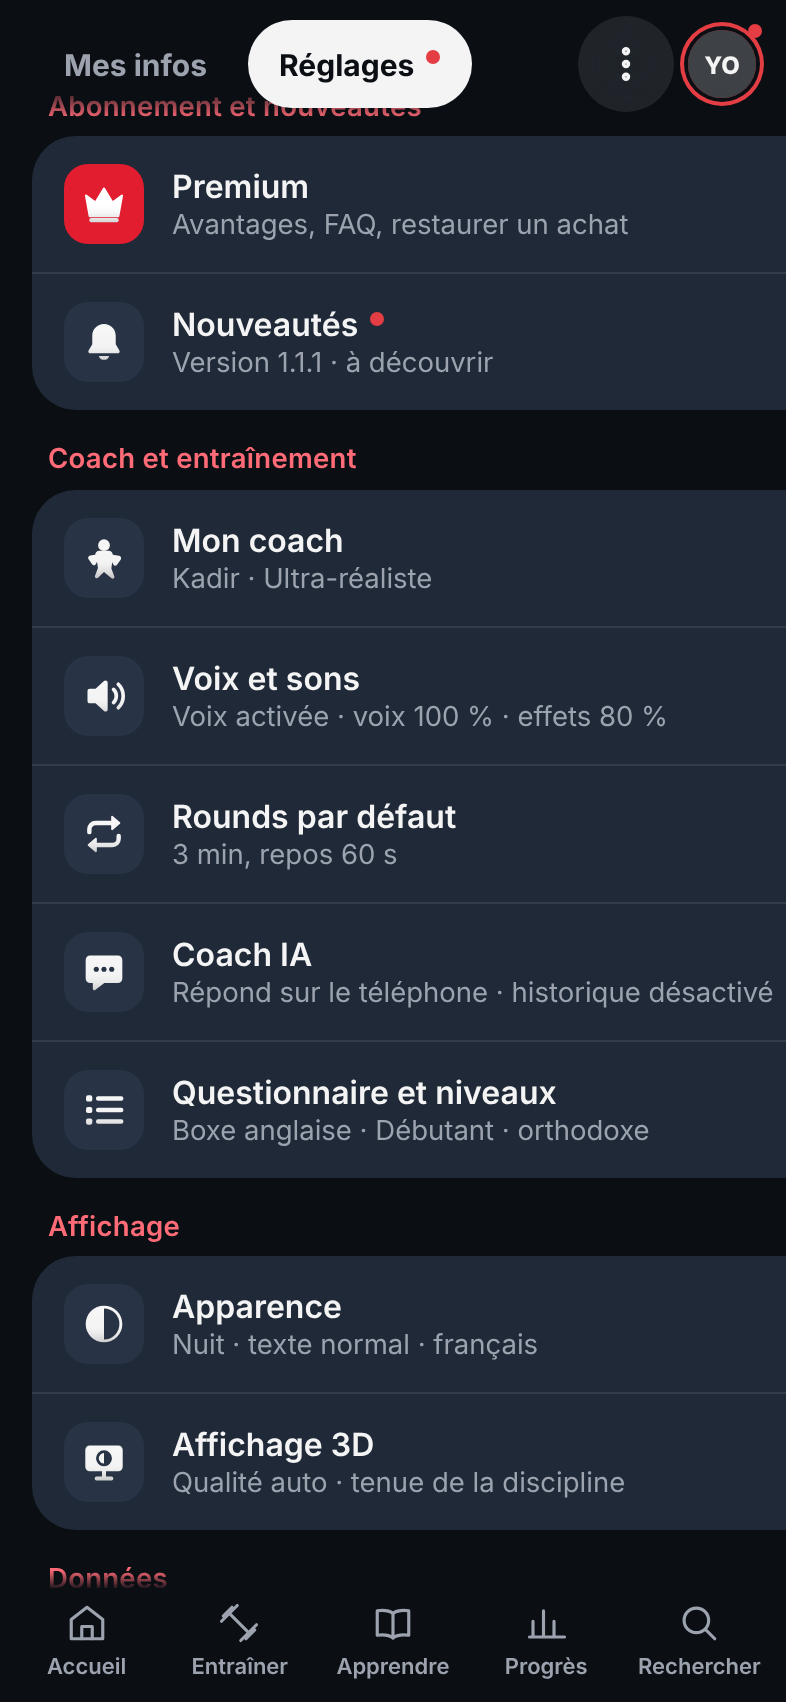
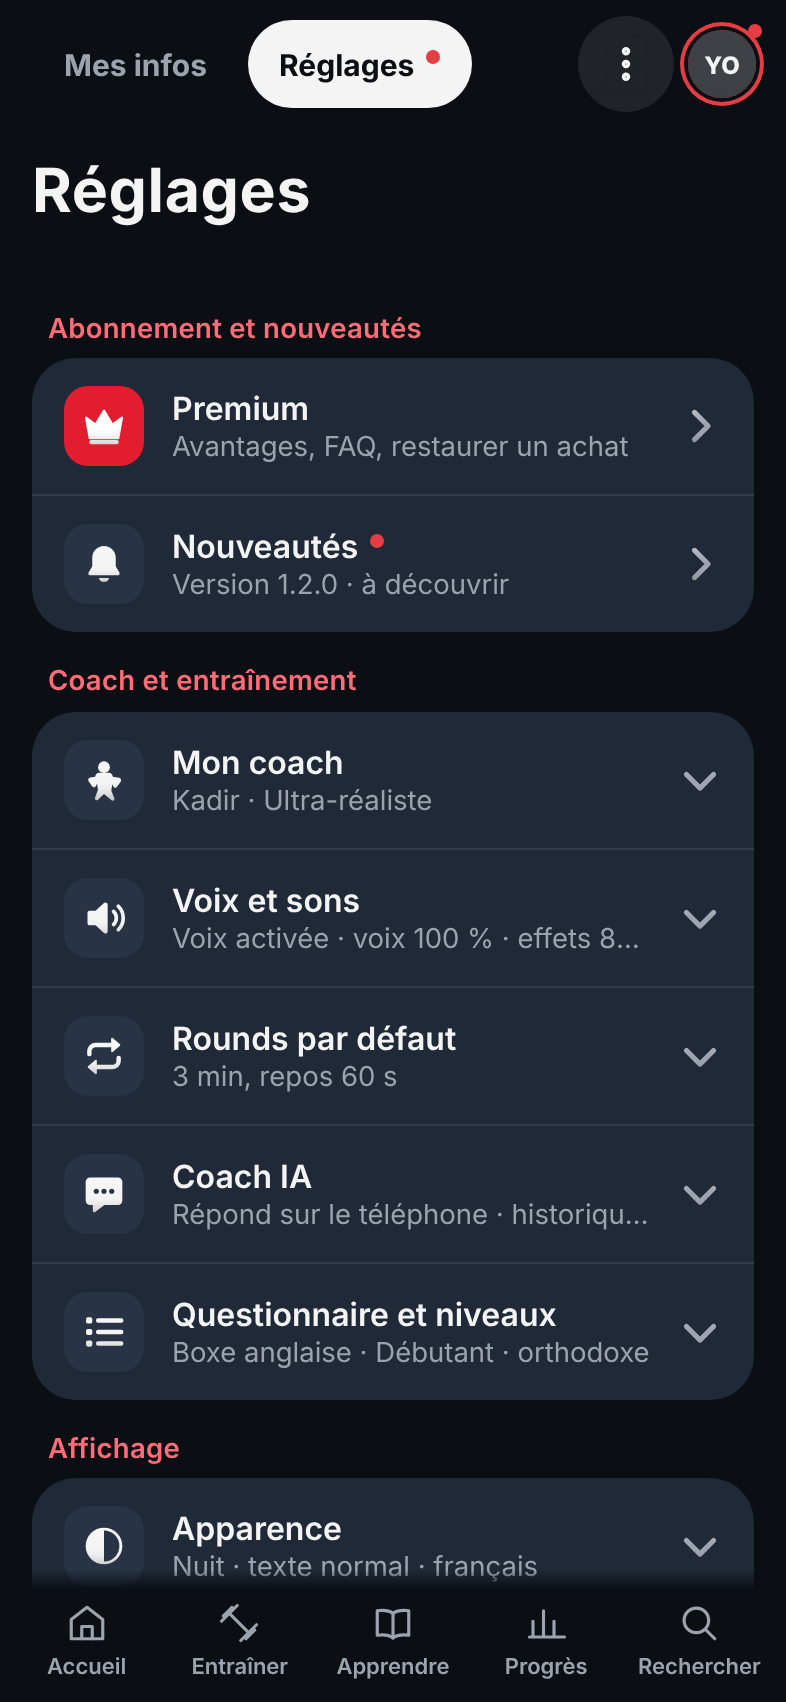
1.2.0 : Profil en 2 onglets, Mes infos et Réglages en listes groupées dépliantes
Mon coach et Coach IA deviennent des lignes de Réglages ; chaque ligne s'ouvre
sur place, Retour la referme. Aucun contenu retiré (tableau dans docs/v120/RAPPORT.md).

Claude-Session: https://claude.ai/code/session_01TJgdTUqLyWCehAqaTRZnc4

diff --git a/tests/e2e/navigation.spec.ts b/tests/e2e/navigation.spec.ts
@@ -27,7 +27,8 @@ const SCREENS: [string, string, string[][], string[] | null, string | null, stri
   ['/stats', 'progres', [], ['Période', 'Statistiques', 'Historique'], null, 'Progrès', null],
   ['/champions', 'legendes', [], ['Disciplines', 'Légende'], null, 'Apprendre', null],
   // 1.0.0 (lot 2): Mon coach and Réglages are tabs of Profil at the top of the screen, not repeated
-  ['/profil', 'profil', [], null, null, 'Profil', null],
+  // 1.2.0: Mon coach is a row of Réglages, no longer a tab: « Coach » of the bar is in the ⋮ (it opens that row)
+  ['/profil', 'profil', [], ['Coach'], null, 'Profil', null],
   // 1.1.0: « Caméra » left Réglages (it opened the same page as Affichage)
   ['/reglages', 'parametres', [], ['Affichage'], null, 'Profil', null],
   // 1.1.1 (Youssef, 2026-10-28: « Plus si uniquement rechercher le retirer car en doublon »): the magnifier is in the
@@ -195,7 +196,7 @@ test.describe('393×851', () => {
     expect(versions).toContain('0.32.0');
     expect(versions).toContain('0.31.0');
     expect(versions).toContain('1.0.0');
-    await expect(news.locator('[data-version="1.1.1"]')).toContainText('Version 1.1.1 · la plus récente');
+    await expect(news.locator('[data-version="1.2.0"]')).toContainText('Version 1.2.0 · la plus récente');
     await expect(news).not.toContainText('fictive');
     // seen: the dots go away at once
     await expect(page.getByTestId('menu-dot')).toHaveCount(0);

diff --git a/src/ui/components/SettingsList.tsx b/src/ui/components/SettingsList.tsx
@@ -95,7 +95,7 @@ export function SetItem({ id, icon, title, summary, dot, tone, children }: { id:
 }
 
 /** a row that opens another page or a sheet instead of opening in place (Premium, Nouveautés) */
-export function SetAction({ icon, title, summary, dot, tone, onClick, to, testId, ariaLabel }: { icon: GlyphId; title: string; summary?: ReactNode; dot?: boolean; tone?: 'premium'; onClick?: () => void; to?: string; testId?: string; ariaLabel?: string }) {
+export function SetAction({ icon, title, summary, dot, dotTestId, tone, onClick, to, testId, ariaLabel }: { icon: GlyphId; title: string; summary?: ReactNode; dot?: boolean; dotTestId?: string; tone?: 'premium'; onClick?: () => void; to?: string; testId?: string; ariaLabel?: string }) {
   const s = useContext(Ctx)!;
   return (
     <div className={`set-item ${tone ?? ''}`}>
@@ -106,7 +106,7 @@ export function SetAction({ icon, title, summary, dot, tone, onClick, to, testId
         <span className="set-tx">
           <b>
             {title}
-            {dot && <i className="me-dot" aria-hidden />}
+            {dot && <i className="me-dot" aria-hidden data-testid={dotTestId} />}
           </b>
           {summary && <span>{summary}</span>}
         </span>

diff --git a/tests/e2e/accueil-recherche.spec.ts b/tests/e2e/accueil-recherche.spec.ts
@@ -169,6 +169,8 @@ for (const theme of ['clair', 'sombre'] as const) {
     await page.getByTestId('app-search').click();
     await page.getByTestId('search-input').fill('ga');
     await expect(page.getByTestId('search-hit').first()).toBeVisible();
+    // 1.2.0: the colours are read once the sheet has finished sliding up (axe read a sheet still moving, 1 run in 2)
+    await page.getByTestId('search-sheet').evaluate((e) => Promise.all(e.parentElement!.getAnimations({ subtree: true }).map((a) => a.finished)));
     const sheet = await new AxeBuilder({ page }).include('[data-testid="search-sheet"]').withRules(['color-contrast']).analyze();
     expect(sheet.violations).toEqual([]);
   });

diff --git a/src/ui/screens/Settings.tsx b/src/ui/screens/Settings.tsx
@@ -177,6 +177,7 @@ export function SettingsPage() {
             title="Nouveautés"
             summary={`Version ${LATEST_RELEASE.version}${unseen ? ' · à découvrir' : ''}`}
             dot={unseen}
+            dotTestId="news-dot"
             onClick={openNews}
             testId="reglages-nouveautes"
             ariaLabel={unseen ? 'Nouveautés, nouvelle version' : 'Nouveautés'}

diff --git a/docs/JOURNAL_CORRECTIONS.md b/docs/JOURNAL_CORRECTIONS.md
@@ -2088,3 +2088,20 @@ ci-dessus sont publiées ensemble en v0.28.0 (pas de publication séparée de la
   - TypeScript : RÉUSSI. Vitest : 849 RÉUSSIS, 1 ignoré.
   - Playwright (corrections-v110 dont les 2 nouveaux tests, navigation, chrono, chrono-seul, coach-bubble, accueil-recherche, createur-v2, nav-contextuelle, aucune-perte-v100) : 69 RÉUSSIS, 2 ÉCHOUÉS : `navigation:172` (attendait la 1.1.0 en tête, mis à jour) ; `chrono:30` instable (la préparation dure 3 s et la machine chargée lisait sa couleur après la fin) : la page enregistre maintenant l'aspect de la préparation au moment où elle s'affiche, sans rien retirer de ce qui est vérifié ; relances 18/18 RÉUSSIS et 2/2 pour `navigation:172`.
   - Android réel : NON EXÉCUTÉ.
+
+## 2026-10-28 · 1.2.0 · Profil et réglages en listes
+
+- **Demande** (Youssef, 07:4x) : « lorsqu'on clique sur la tête en haut à droite, 2 onglets glissants : Mes infos & Réglages avec tout le reste dans Réglages : une page avec toutes les options en liste bien présentées qui se déploient quand on clique dessus » ; « pareil dans Mes infos » ; proposition choisie B « Groupes Android ». Rappels : aucune perte de contenu, mode jour et nuit.
+- **Constat** : Profil avait 4 onglets (Mes infos, Mon coach, Coach IA, Réglages) ; Mes infos et Réglages étaient de longues pages de panneaux, avec des réglages d'affichage et de données dans Mes infos.
+- **Changement** (détail et tableau « où va chaque contenu » dans `docs/v120/RAPPORT.md`, captures jour et nuit dans `docs/v120/captures/`) :
+  - Profil = 2 onglets, Mes infos et Réglages ; Mon coach et Coach IA deviennent des lignes de Réglages (les pages `/coach` et `/coach-ia` restent) ;
+  - chaque onglet est une seule liste en groupes, chaque ligne montre sa valeur et s'ouvre sur place, une à la fois ; Retour referme la ligne d'abord (`src/ui/components/SettingsList.tsx`, styles `.set-*`) ;
+  - taille du texte, animations, langue et « M'appeler par mon pseudo » passent dans Réglages ; export, effacement et confidentialité regroupés dans Réglages › Données et confidentialité ; anciennes adresses `/reglages/<section>` ouvrent la bonne ligne ;
+  - guide du Coach IA, recherche et Nouveautés 1.2.0 mis à jour, version 1.2.0.
+- **Défauts trouvés en vérifiant et corrigés** : lignes qui débordaient à droite ; résumé de l'identité ambigu ; repère de la pastille Nouveautés.
+- **Tests** :
+  - TypeScript : RÉUSSI. Vitest : 849 RÉUSSIS, 1 ignoré.
+  - Nouveau `tests/e2e/profil-v120.spec.ts` : 6/6 RÉUSSIS. 15 fichiers adaptés sans retirer de vérification.
+  - Playwright complet (254 tests, 37,5 min) : 250 RÉUSSIS, 2 ignorés (Firebase), 2 ÉCHOUÉS : `training-layout:329` (déjà en échec avant la 1.0.0) et `coach-suggest:98` (ÉCHOUÉ aussi sur la 1.1.1, sans lien avec ce lot).
+  - Android réel : NON EXÉCUTÉ.
+

diff --git a/docs/v120/RAPPORT.md b/docs/v120/RAPPORT.md
@@ -47,6 +47,24 @@ Point de restauration : `restauration/avant-v120` (dd1f952). Branche : `feature/
 
 Les pages `/coach` (choix du coach au premier lancement) et `/coach-ia` (historique) restent. La barre du bas de Profil garde « Coach », qui ouvre maintenant Réglages › Mon coach.
 
+## Captures
+
+`docs/v120/captures/` : Mes infos et Réglages, lignes fermées et ouvertes, en mode nuit (`*-dark.png`) et en mode jour (`*-light.png`), 393 × 851.
+
+## Défauts trouvés en vérifiant et corrigés
+
+- Les lignes débordaient à droite de l'écran (le résumé sur une ligne élargissait la grille) : colonne `minmax(0, 1fr)`.
+- Le résumé de l'identité disait « Youssef · Mon coach » : il dit maintenant « avatar : mon coach ».
+- La pastille de Nouveautés n'avait plus son repère de test `news-dot` : rétabli.
+
 ## Tests
 
-Voir la section « Résultats » ci-dessous (remplie après exécution).
+- TypeScript : RÉUSSI.
+- Vitest : 849 RÉUSSIS, 1 ignoré (dont `refonte.test` mis à jour : 2 onglets dans Profil, « Coach » au-dessus de la barre ouvre Réglages › Mon coach).
+- Nouveau `tests/e2e/profil-v120.spec.ts` (deux onglets seulement ; chaque ligne de Mes infos et de Réglages s'ouvre et montre son contenu, une seule à la fois ; Retour referme la ligne puis quitte ; anciennes adresses ; jour et nuit) : 6/6 RÉUSSIS (deux passages).
+- 15 fichiers de tests de bout en bout adaptés aux lignes qui s'ouvrent (ouvrir la ligne avant de toucher son contenu), sans retirer aucune vérification ; `contrast.spec` vérifie en plus 4 lignes ouvertes.
+- `accueil-recherche:154` : le contraste était lu pendant que la feuille de recherche montait encore (1 passage sur 2) ; le test attend maintenant la fin de l'animation avant de lire les couleurs.
+- Playwright complet (254 tests, 37,5 min) : 250 RÉUSSIS, 2 ignorés (Firebase), 2 ÉCHOUÉS :
+  - `training-layout:329` caméra Auto : ÉCHOUÉ, déjà en échec avant la 1.0.0 ;
+  - `coach-suggest:98` questions suggérées (défilement au doigt) : ÉCHOUÉ, et ÉCHOUÉ aussi 2 fois sur 2 sur la 1.1.1 (dd1f952) : ce n'est pas causé par la 1.2.0, à traiter à part.
+- Android réel : NON EXÉCUTÉ.
